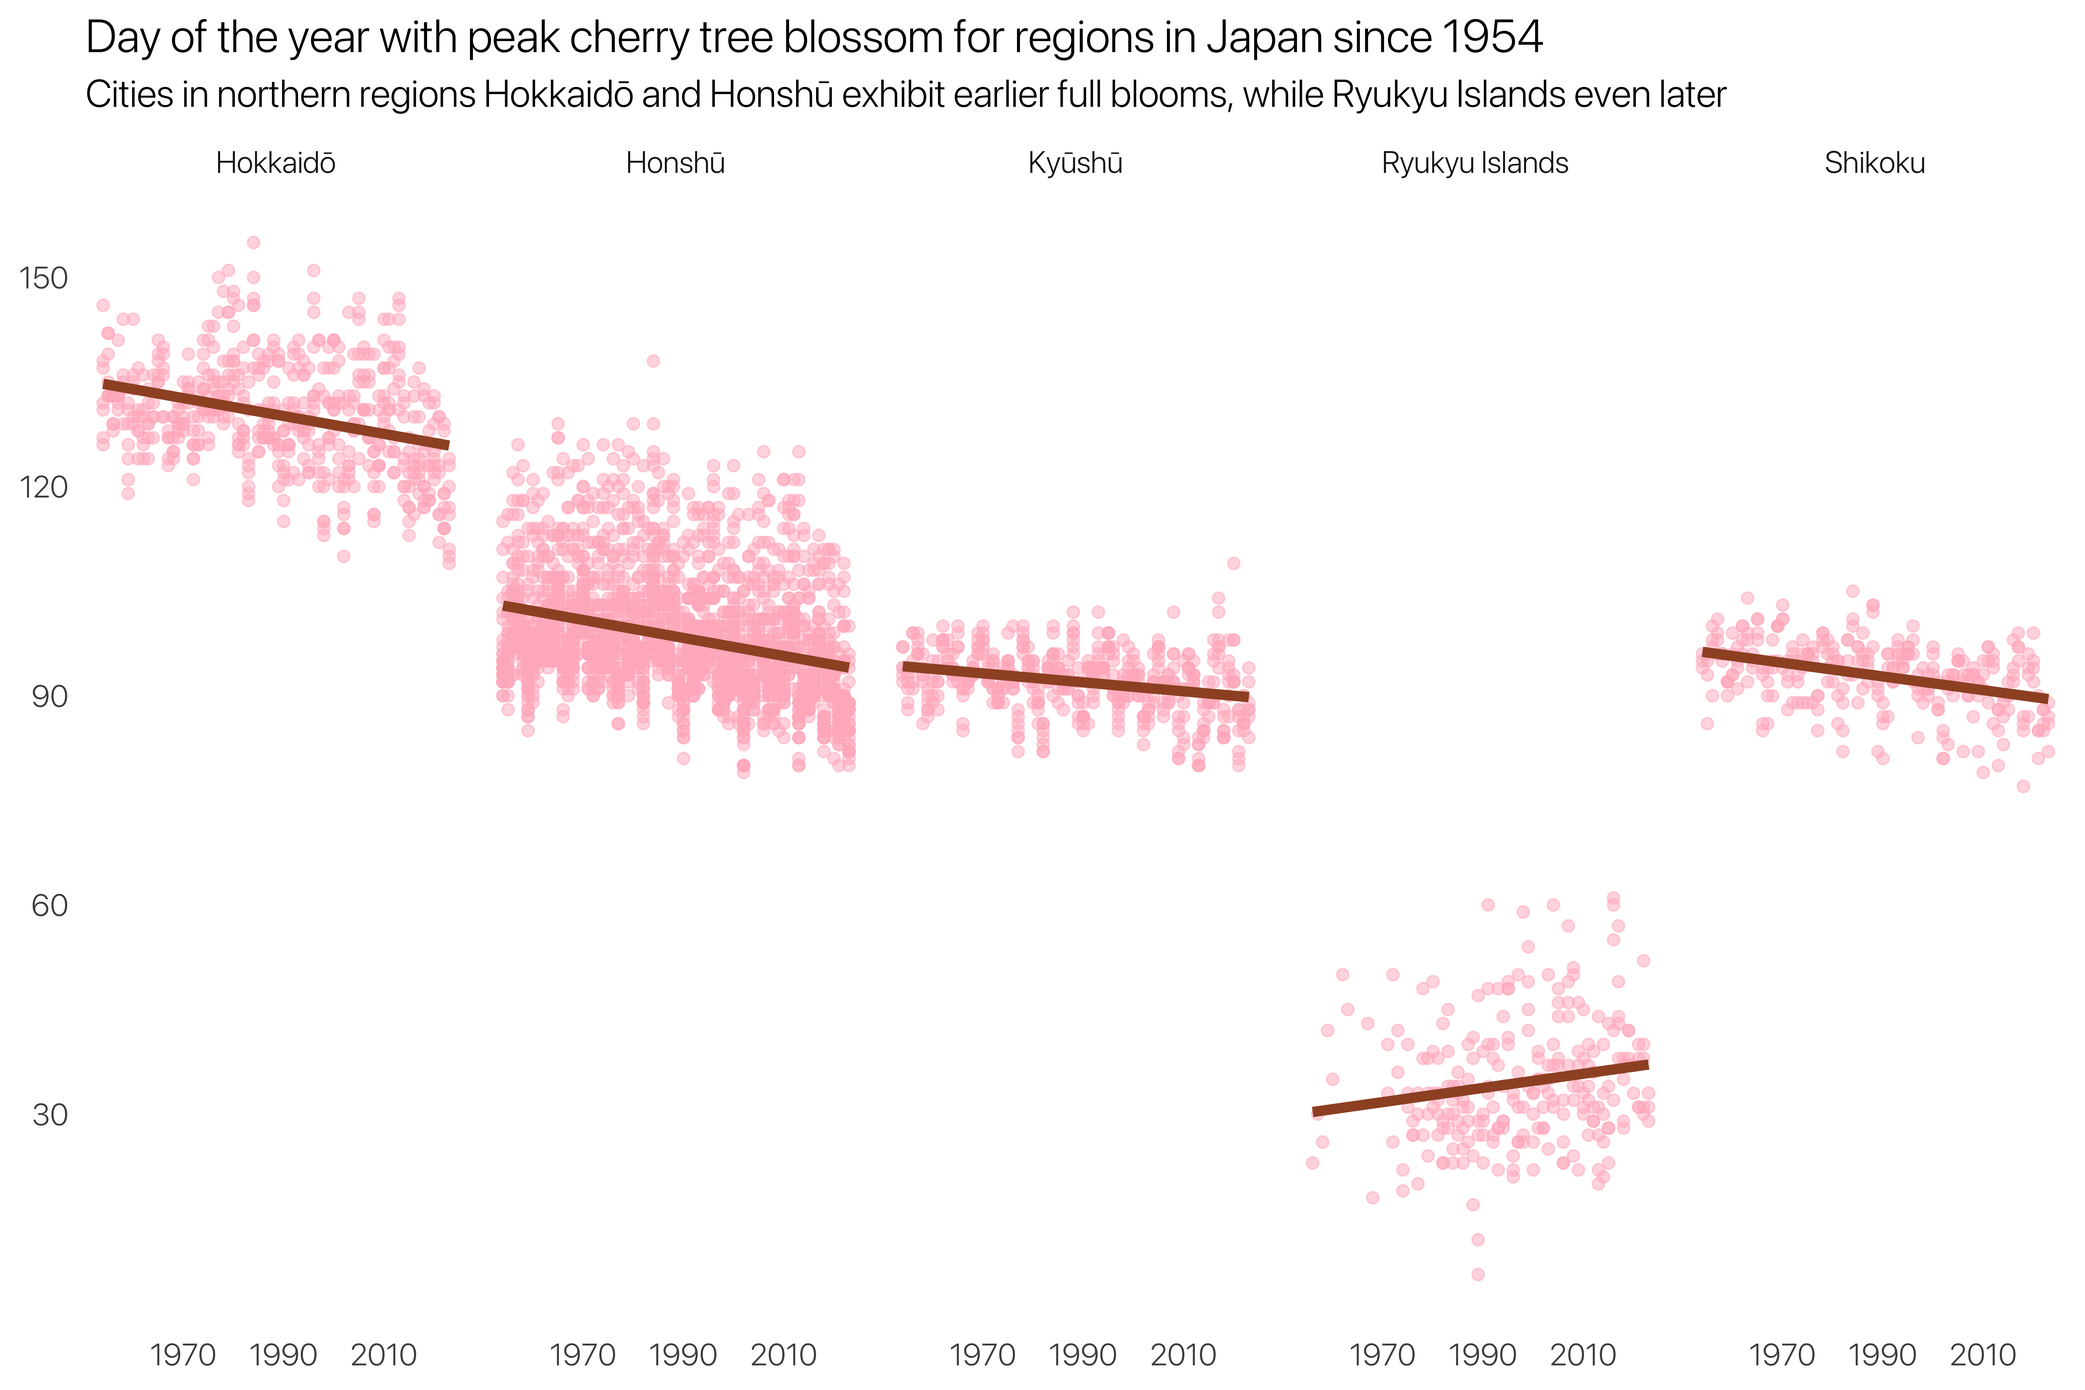
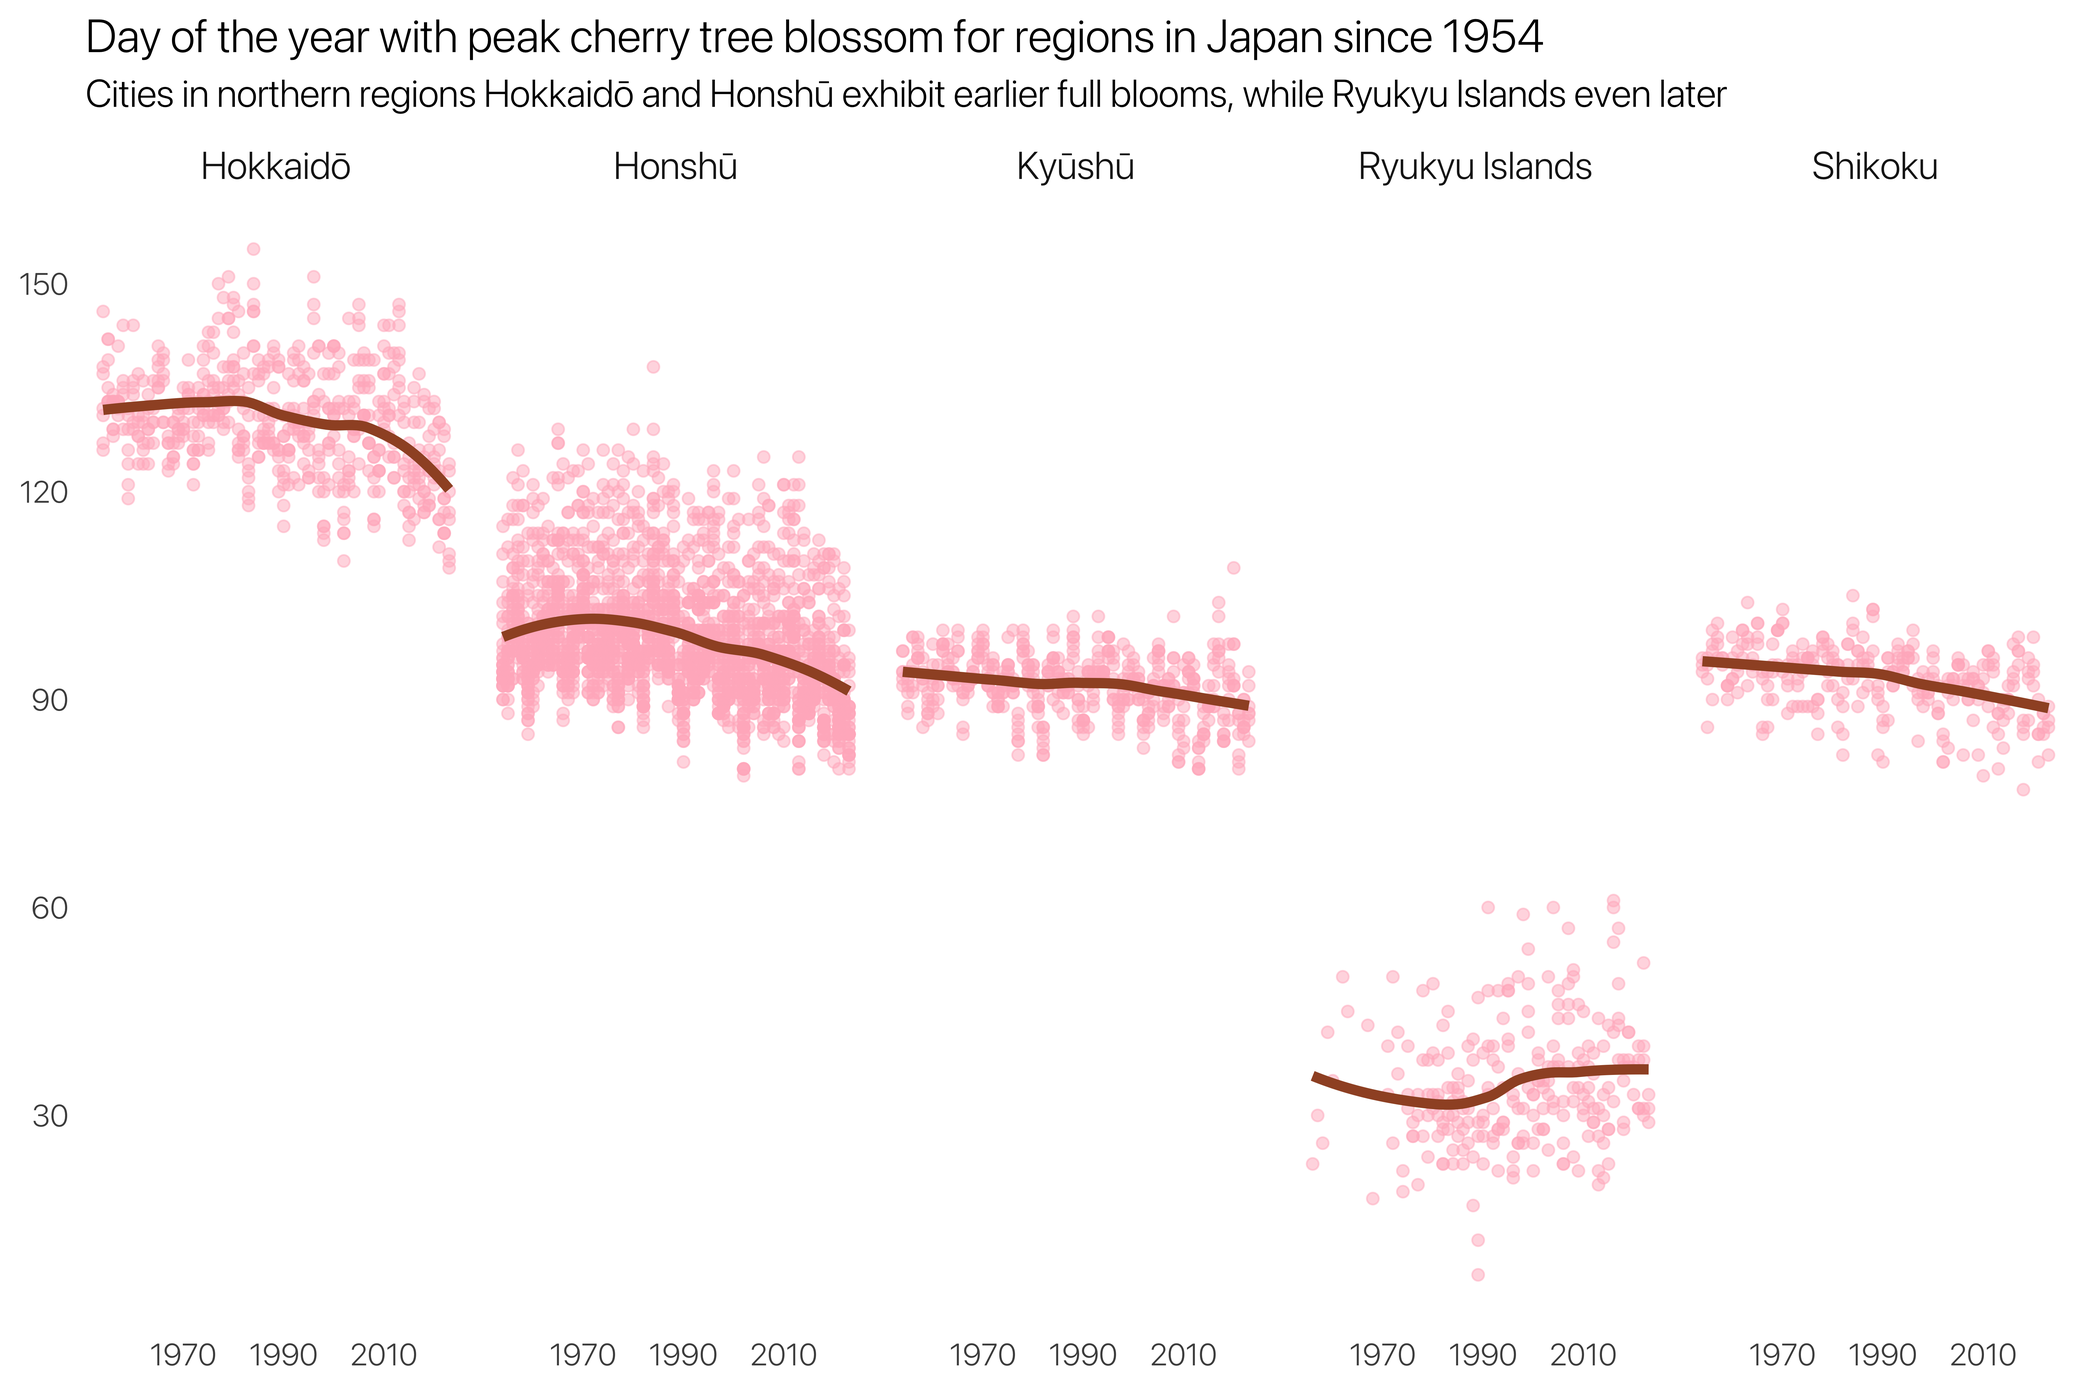
Switched to loess method & increase strip font size

diff --git a/docs/posts/sakura-visualizations/index.html b/docs/posts/sakura-visualizations/index.html
@@ -397,15 +397,16 @@ cookieconsent.run({
 <span id="cb9-3"><a href="#cb9-3" aria-hidden="true" tabindex="-1"></a><span class="fu">theme_update</span>(</span>
 <span id="cb9-4"><a href="#cb9-4" aria-hidden="true" tabindex="-1"></a>  <span class="at">panel.grid.minor =</span> <span class="fu">element_blank</span>(),</span>
 <span id="cb9-5"><a href="#cb9-5" aria-hidden="true" tabindex="-1"></a>  <span class="at">panel.grid.major =</span> <span class="fu">element_blank</span>(),</span>
-<span id="cb9-6"><a href="#cb9-6" aria-hidden="true" tabindex="-1"></a>  <span class="at">strip.background =</span> <span class="fu">element_blank</span>(),</span>
-<span id="cb9-7"><a href="#cb9-7" aria-hidden="true" tabindex="-1"></a>  <span class="at">axis.title.x =</span> <span class="fu">element_blank</span>(), </span>
-<span id="cb9-8"><a href="#cb9-8" aria-hidden="true" tabindex="-1"></a>  <span class="at">axis.title.y =</span> <span class="fu">element_blank</span>(),</span>
-<span id="cb9-9"><a href="#cb9-9" aria-hidden="true" tabindex="-1"></a>  <span class="at">axis.ticks =</span> <span class="fu">element_blank</span>(),</span>
-<span id="cb9-10"><a href="#cb9-10" aria-hidden="true" tabindex="-1"></a>  <span class="at">axis.line =</span> <span class="fu">element_blank</span>()</span>
-<span id="cb9-11"><a href="#cb9-11" aria-hidden="true" tabindex="-1"></a>)</span>
-<span id="cb9-12"><a href="#cb9-12" aria-hidden="true" tabindex="-1"></a></span>
-<span id="cb9-13"><a href="#cb9-13" aria-hidden="true" tabindex="-1"></a>colors <span class="ot">&lt;-</span> <span class="fu">c</span>(<span class="st">"#ffb7c5"</span>, <span class="st">"#A0522D"</span>)</span>
-<span id="cb9-14"><a href="#cb9-14" aria-hidden="true" tabindex="-1"></a>breaks_year <span class="ot">&lt;-</span> <span class="fu">seq</span>(<span class="dv">1950</span>, <span class="dv">2030</span>, <span class="at">by =</span> <span class="dv">20</span>)</span></code><button title="Copy to Clipboard" class="code-copy-button"><i class="bi"></i></button></pre></div>
+<span id="cb9-6"><a href="#cb9-6" aria-hidden="true" tabindex="-1"></a>  <span class="at">strip.text =</span> <span class="fu">element_text</span>(<span class="at">size =</span> <span class="dv">16</span>),</span>
+<span id="cb9-7"><a href="#cb9-7" aria-hidden="true" tabindex="-1"></a>  <span class="at">strip.background =</span> <span class="fu">element_blank</span>(),</span>
+<span id="cb9-8"><a href="#cb9-8" aria-hidden="true" tabindex="-1"></a>  <span class="at">axis.title.x =</span> <span class="fu">element_blank</span>(), </span>
+<span id="cb9-9"><a href="#cb9-9" aria-hidden="true" tabindex="-1"></a>  <span class="at">axis.title.y =</span> <span class="fu">element_blank</span>(),</span>
+<span id="cb9-10"><a href="#cb9-10" aria-hidden="true" tabindex="-1"></a>  <span class="at">axis.ticks =</span> <span class="fu">element_blank</span>(),</span>
+<span id="cb9-11"><a href="#cb9-11" aria-hidden="true" tabindex="-1"></a>  <span class="at">axis.line =</span> <span class="fu">element_blank</span>()</span>
+<span id="cb9-12"><a href="#cb9-12" aria-hidden="true" tabindex="-1"></a>)</span>
+<span id="cb9-13"><a href="#cb9-13" aria-hidden="true" tabindex="-1"></a></span>
+<span id="cb9-14"><a href="#cb9-14" aria-hidden="true" tabindex="-1"></a>colors <span class="ot">&lt;-</span> <span class="fu">c</span>(<span class="st">"#ffb7c5"</span>, <span class="st">"#A0522D"</span>)</span>
+<span id="cb9-15"><a href="#cb9-15" aria-hidden="true" tabindex="-1"></a>breaks_year <span class="ot">&lt;-</span> <span class="fu">seq</span>(<span class="dv">1950</span>, <span class="dv">2030</span>, <span class="at">by =</span> <span class="dv">20</span>)</span></code><button title="Copy to Clipboard" class="code-copy-button"><i class="bi"></i></button></pre></div>
 </div>
 </div>
 <div id="tabset-5-2" class="tab-pane" role="tabpanel" aria-labelledby="tabset-5-2-tab">
@@ -425,15 +426,16 @@ cookieconsent.run({
 <span id="cb10-13"><a href="#cb10-13" aria-hidden="true" tabindex="-1"></a>theme_update(</span>
 <span id="cb10-14"><a href="#cb10-14" aria-hidden="true" tabindex="-1"></a>  panel_grid_minor <span class="op">=</span> element_blank(),</span>
 <span id="cb10-15"><a href="#cb10-15" aria-hidden="true" tabindex="-1"></a>  panel_grid_major <span class="op">=</span> element_blank(),</span>
-<span id="cb10-16"><a href="#cb10-16" aria-hidden="true" tabindex="-1"></a>  strip_background <span class="op">=</span> element_blank(),</span>
-<span id="cb10-17"><a href="#cb10-17" aria-hidden="true" tabindex="-1"></a>  axis_title_x <span class="op">=</span> element_blank(),</span>
-<span id="cb10-18"><a href="#cb10-18" aria-hidden="true" tabindex="-1"></a>  axis_title_y <span class="op">=</span> element_blank(),</span>
-<span id="cb10-19"><a href="#cb10-19" aria-hidden="true" tabindex="-1"></a>  axis_ticks <span class="op">=</span> element_blank(),</span>
-<span id="cb10-20"><a href="#cb10-20" aria-hidden="true" tabindex="-1"></a>  axis_line <span class="op">=</span> element_blank()</span>
-<span id="cb10-21"><a href="#cb10-21" aria-hidden="true" tabindex="-1"></a>)</span>
-<span id="cb10-22"><a href="#cb10-22" aria-hidden="true" tabindex="-1"></a></span>
-<span id="cb10-23"><a href="#cb10-23" aria-hidden="true" tabindex="-1"></a>colors <span class="op">=</span> [<span class="st">"#ffb7c5"</span>, <span class="st">"#A0522D"</span>]</span>
-<span id="cb10-24"><a href="#cb10-24" aria-hidden="true" tabindex="-1"></a>breaks_year <span class="op">=</span> <span class="bu">range</span>(<span class="dv">1950</span>, <span class="dv">2031</span>, <span class="dv">20</span>)</span></code><button title="Copy to Clipboard" class="code-copy-button"><i class="bi"></i></button></pre></div>
+<span id="cb10-16"><a href="#cb10-16" aria-hidden="true" tabindex="-1"></a>  strip_text <span class="op">=</span> element_text(size <span class="op">=</span> <span class="dv">16</span>),</span>
+<span id="cb10-17"><a href="#cb10-17" aria-hidden="true" tabindex="-1"></a>  strip_background <span class="op">=</span> element_blank(),</span>
+<span id="cb10-18"><a href="#cb10-18" aria-hidden="true" tabindex="-1"></a>  axis_title_x <span class="op">=</span> element_blank(),</span>
+<span id="cb10-19"><a href="#cb10-19" aria-hidden="true" tabindex="-1"></a>  axis_title_y <span class="op">=</span> element_blank(),</span>
+<span id="cb10-20"><a href="#cb10-20" aria-hidden="true" tabindex="-1"></a>  axis_ticks <span class="op">=</span> element_blank(),</span>
+<span id="cb10-21"><a href="#cb10-21" aria-hidden="true" tabindex="-1"></a>  axis_line <span class="op">=</span> element_blank()</span>
+<span id="cb10-22"><a href="#cb10-22" aria-hidden="true" tabindex="-1"></a>)</span>
+<span id="cb10-23"><a href="#cb10-23" aria-hidden="true" tabindex="-1"></a></span>
+<span id="cb10-24"><a href="#cb10-24" aria-hidden="true" tabindex="-1"></a>colors <span class="op">=</span> [<span class="st">"#ffb7c5"</span>, <span class="st">"#A0522D"</span>]</span>
+<span id="cb10-25"><a href="#cb10-25" aria-hidden="true" tabindex="-1"></a>breaks_year <span class="op">=</span> <span class="bu">range</span>(<span class="dv">1950</span>, <span class="dv">2031</span>, <span class="dv">20</span>)</span></code><button title="Copy to Clipboard" class="code-copy-button"><i class="bi"></i></button></pre></div>
 </div>
 </div>
 </div>
@@ -450,7 +452,7 @@ cookieconsent.run({
 <div class="sourceCode cell-code" id="cb11"><pre class="sourceCode r code-with-copy"><code class="sourceCode r"><span id="cb11-1"><a href="#cb11-1" aria-hidden="true" tabindex="-1"></a>sakura_data <span class="sc">|&gt;</span> </span>
 <span id="cb11-2"><a href="#cb11-2" aria-hidden="true" tabindex="-1"></a>  <span class="fu">ggplot</span>(<span class="fu">aes</span>(<span class="at">x =</span> year, <span class="at">y =</span> days_to_full_bloom)) <span class="sc">+</span></span>
 <span id="cb11-3"><a href="#cb11-3" aria-hidden="true" tabindex="-1"></a>  <span class="fu">geom_point</span>(<span class="at">color =</span> colors[<span class="dv">1</span>], <span class="at">alpha =</span> <span class="fl">0.5</span>, <span class="at">size =</span> <span class="dv">2</span>) <span class="sc">+</span></span>
-<span id="cb11-4"><a href="#cb11-4" aria-hidden="true" tabindex="-1"></a>  <span class="fu">geom_smooth</span>(<span class="at">method =</span> lm, <span class="at">se =</span> <span class="cn">FALSE</span>,</span>
+<span id="cb11-4"><a href="#cb11-4" aria-hidden="true" tabindex="-1"></a>  <span class="fu">geom_smooth</span>(<span class="at">method =</span> <span class="st">"loess"</span>, <span class="at">se =</span> <span class="cn">FALSE</span>,</span>
 <span id="cb11-5"><a href="#cb11-5" aria-hidden="true" tabindex="-1"></a>              <span class="at">color =</span> colors[<span class="dv">2</span>], <span class="at">linewidth =</span> <span class="dv">2</span>) <span class="sc">+</span></span>
 <span id="cb11-6"><a href="#cb11-6" aria-hidden="true" tabindex="-1"></a>  <span class="fu">facet_wrap</span>(<span class="sc">~</span>region, <span class="at">nrow =</span> <span class="dv">1</span>) <span class="sc">+</span> </span>
 <span id="cb11-7"><a href="#cb11-7" aria-hidden="true" tabindex="-1"></a>  <span class="fu">labs</span>(<span class="at">title =</span> <span class="st">"Day of the year with peak cherry tree blossom for regions in Japan since 1954"</span>,</span>
@@ -473,7 +475,7 @@ cookieconsent.run({
 <div class="sourceCode cell-code" id="cb12"><pre class="sourceCode python code-with-copy"><code class="sourceCode python"><span id="cb12-1"><a href="#cb12-1" aria-hidden="true" tabindex="-1"></a>(ggplot(sakura_data, </span>
 <span id="cb12-2"><a href="#cb12-2" aria-hidden="true" tabindex="-1"></a>         aes(x <span class="op">=</span> <span class="st">"year"</span>, y <span class="op">=</span> <span class="st">"days_to_full_bloom"</span>))</span>
 <span id="cb12-3"><a href="#cb12-3" aria-hidden="true" tabindex="-1"></a>  <span class="op">+</span> geom_point(color <span class="op">=</span> colors[<span class="dv">0</span>], alpha <span class="op">=</span> <span class="fl">0.5</span>, size <span class="op">=</span> <span class="dv">2</span>)</span>
-<span id="cb12-4"><a href="#cb12-4" aria-hidden="true" tabindex="-1"></a>  <span class="op">+</span> geom_smooth(method <span class="op">=</span> <span class="st">"lm"</span>, se <span class="op">=</span> <span class="va">False</span>,</span>
+<span id="cb12-4"><a href="#cb12-4" aria-hidden="true" tabindex="-1"></a>  <span class="op">+</span> geom_smooth(method <span class="op">=</span> <span class="st">"loess"</span>, se <span class="op">=</span> <span class="va">False</span>,</span>
 <span id="cb12-5"><a href="#cb12-5" aria-hidden="true" tabindex="-1"></a>                color <span class="op">=</span> colors[<span class="dv">1</span>], size <span class="op">=</span> <span class="dv">2</span>)</span>
 <span id="cb12-6"><a href="#cb12-6" aria-hidden="true" tabindex="-1"></a>  <span class="op">+</span> facet_wrap(<span class="st">"~region"</span>, nrow <span class="op">=</span> <span class="dv">1</span>)</span>
 <span id="cb12-7"><a href="#cb12-7" aria-hidden="true" tabindex="-1"></a>  <span class="op">+</span> labs(title <span class="op">=</span> <span class="st">"Day of the year with peak cherry tree blossom for regions in Japan since 1954"</span>,</span>
@@ -508,7 +510,7 @@ cookieconsent.run({
 <div class="sourceCode cell-code" id="cb14"><pre class="sourceCode r code-with-copy"><code class="sourceCode r"><span id="cb14-1"><a href="#cb14-1" aria-hidden="true" tabindex="-1"></a>sakura_data <span class="sc">|&gt;</span></span>
 <span id="cb14-2"><a href="#cb14-2" aria-hidden="true" tabindex="-1"></a>  <span class="fu">ggplot</span>(<span class="fu">aes</span>(<span class="at">x =</span> year, <span class="at">y =</span> days_from_first_to_full_bloom)) <span class="sc">+</span></span>
 <span id="cb14-3"><a href="#cb14-3" aria-hidden="true" tabindex="-1"></a>  <span class="fu">geom_point</span>(<span class="at">color =</span> colors[<span class="dv">1</span>], <span class="at">alpha =</span> <span class="fl">0.5</span>) <span class="sc">+</span></span>
-<span id="cb14-4"><a href="#cb14-4" aria-hidden="true" tabindex="-1"></a>  <span class="fu">geom_smooth</span>(<span class="at">method =</span> lm, <span class="at">se =</span> <span class="cn">FALSE</span>,</span>
+<span id="cb14-4"><a href="#cb14-4" aria-hidden="true" tabindex="-1"></a>  <span class="fu">geom_smooth</span>(<span class="at">method =</span> <span class="st">"loess"</span>, <span class="at">se =</span> <span class="cn">FALSE</span>,</span>
 <span id="cb14-5"><a href="#cb14-5" aria-hidden="true" tabindex="-1"></a>              <span class="at">color =</span> colors[<span class="dv">2</span>], <span class="at">linewidth =</span> <span class="dv">2</span>) <span class="sc">+</span></span>
 <span id="cb14-6"><a href="#cb14-6" aria-hidden="true" tabindex="-1"></a>  <span class="fu">facet_wrap</span>(<span class="sc">~</span>region, <span class="at">nrow =</span> <span class="dv">1</span>) <span class="sc">+</span></span>
 <span id="cb14-7"><a href="#cb14-7" aria-hidden="true" tabindex="-1"></a>  <span class="fu">labs</span>(<span class="at">title =</span> <span class="st">"Days from blossoms opening to peak bloom for regions in Japan since 1954"</span>,</span>
@@ -529,7 +531,7 @@ cookieconsent.run({
 <div class="sourceCode cell-code" id="cb15"><pre class="sourceCode python code-with-copy"><code class="sourceCode python"><span id="cb15-1"><a href="#cb15-1" aria-hidden="true" tabindex="-1"></a>(ggplot(sakura_data, </span>
 <span id="cb15-2"><a href="#cb15-2" aria-hidden="true" tabindex="-1"></a>        aes(x <span class="op">=</span> <span class="st">"year"</span>, y <span class="op">=</span> <span class="st">"days_from_first_to_full_bloom"</span>))</span>
 <span id="cb15-3"><a href="#cb15-3" aria-hidden="true" tabindex="-1"></a>  <span class="op">+</span> geom_point(color <span class="op">=</span> colors[<span class="dv">0</span>], alpha <span class="op">=</span> <span class="fl">0.5</span>)</span>
-<span id="cb15-4"><a href="#cb15-4" aria-hidden="true" tabindex="-1"></a>  <span class="op">+</span> geom_smooth(method <span class="op">=</span> <span class="st">"lm"</span>, se <span class="op">=</span> <span class="va">False</span>, </span>
+<span id="cb15-4"><a href="#cb15-4" aria-hidden="true" tabindex="-1"></a>  <span class="op">+</span> geom_smooth(method <span class="op">=</span> <span class="st">"loess"</span>, se <span class="op">=</span> <span class="va">False</span>, </span>
 <span id="cb15-5"><a href="#cb15-5" aria-hidden="true" tabindex="-1"></a>                color <span class="op">=</span> colors[<span class="dv">1</span>], size <span class="op">=</span> <span class="dv">2</span>)</span>
 <span id="cb15-6"><a href="#cb15-6" aria-hidden="true" tabindex="-1"></a>  <span class="op">+</span> facet_wrap(<span class="st">"~region"</span>, nrow <span class="op">=</span> <span class="dv">1</span>)</span>
 <span id="cb15-7"><a href="#cb15-7" aria-hidden="true" tabindex="-1"></a>  <span class="op">+</span> labs(title <span class="op">=</span> <span class="st">"Days from blossoms opening to peak bloom for regions in Japan since 1954"</span>,</span>
@@ -1067,7 +1069,7 @@ window.document.addEventListener("DOMContentLoaded", function (event) {
     </div>
   </div>
 </footer>
-<script>var lightboxQuarto = GLightbox({"descPosition":"bottom","selector":".lightbox","loop":false,"closeEffect":"zoom","openEffect":"zoom"});
+<script>var lightboxQuarto = GLightbox({"selector":".lightbox","openEffect":"zoom","descPosition":"bottom","closeEffect":"zoom","loop":false});
 (function() {
   let previousOnload = window.onload;
   window.onload = () => {

diff --git a/docs/index.html b/docs/index.html
@@ -217,7 +217,7 @@ window.Quarto = {
 
 <div class="quarto-listing quarto-listing-container-grid" id="listing-listing">
 <div class="list grid quarto-listing-cols-3">
-<div class="g-col-1" data-index="0" data-categories="R,Python,Visualization" data-listing-date-sort="1716760800000" data-listing-file-modified-sort="1720109237477" data-listing-date-modified-sort="NaN" data-listing-reading-time-sort="11" data-listing-word-count-sort="2080">
+<div class="g-col-1" data-index="0" data-categories="R,Python,Visualization" data-listing-date-sort="1716760800000" data-listing-file-modified-sort="1720159478692" data-listing-date-modified-sort="NaN" data-listing-reading-time-sort="11" data-listing-word-count-sort="2092">
 <a href="./posts/sakura-visualizations/index.html" class="quarto-grid-link">
 <div class="quarto-grid-item card h-100 card-left">
 <p class="card-img-top">
